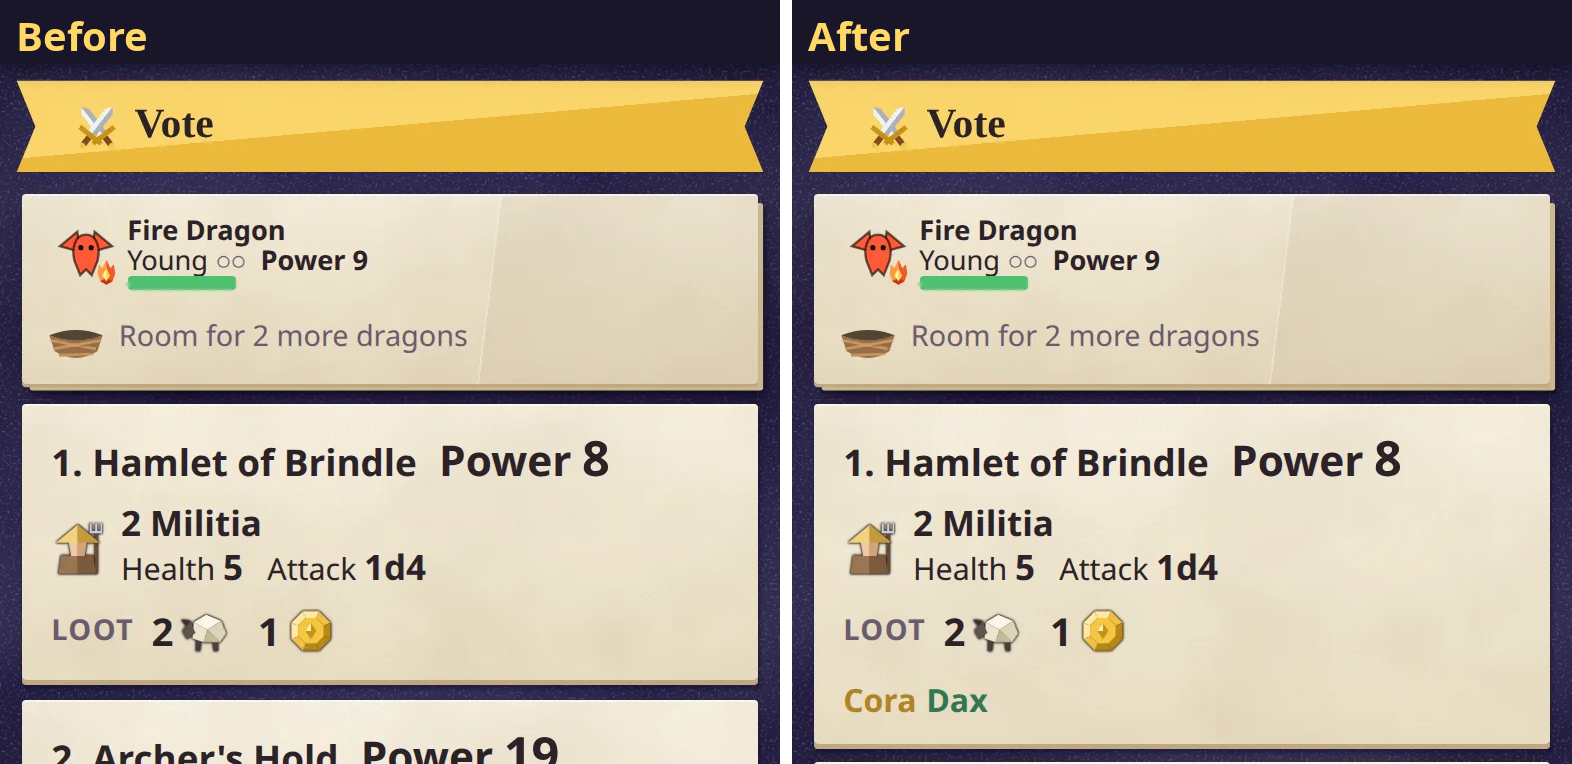
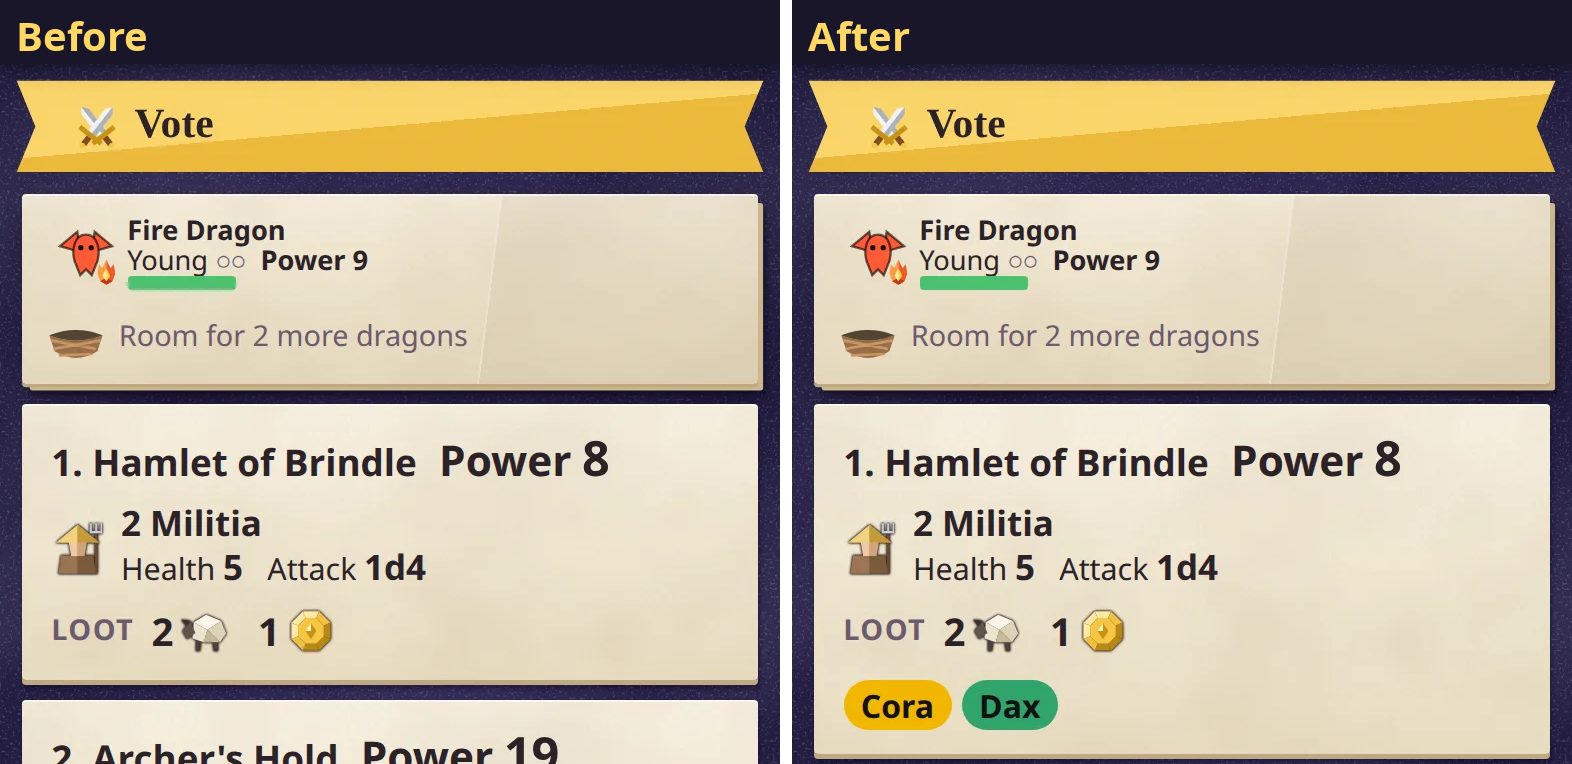
TV vote: one number per kingdom, votes readable from across the room
Vote cards show name, combat power large, defenders as pictures with counts,
loot, and voters as coloured pills; per-unit stats wait for the commit step.
The bottom row shows the number each player voted for instead of a tick.

Claude-Session: https://claude.ai/code/session_01MEmTqDZjgwKLtVkQEKthmc

Changed region(s): [[0.4987, 0.873, 0.9975, 1.0], [0.5922, 0.3613, 0.6546, 0.3914]]

diff --git a/web/tv.ts b/web/tv.ts
@@ -8,7 +8,7 @@ import type { DragonView, EventView, PublicState, Snapshot, TargetView } from '.
 import {
   ELEMENT_COLORS, PLAYER_COLORS, POINTS_TO_WIN, STAGE_LABEL, TERRAIN_COLORS, TERRAIN_NAMES, TITLE_ICON, buildingIcon, dieFace, dragonBadge, dragonChip, dragonLabel, dragonState, elemWords, esc, eventHtml, foeStack, lootLine, gainChips, hpBar, hpFill, powerTag,
   icon, iconText, mapSvg, named, playerTag, post, resChips, standingsHtml, tiebreakNote, unitIcon, watch,
-  fadeAway, voters,
+  fadeAway, foeIcons, voters,
 } from './common.ts';
 import { ART_DEFS, tableScene, towerToken, winnerScene } from './art.ts';
 import type { Board3D } from './board3d.ts';
@@ -321,8 +321,15 @@ function talkLine(text: string, g: PublicState): string {
 
 // The raid takes over the screen while it runs. Every step is the same
 // arena: the raiders on the left, the kingdom's defenders on the right.
-function targetCard(t: TargetView, extra = '', below = ''): string {
-  return `<div class="target">${extra}<h2>${esc(t.name)} ${powerTag(t.power, 'big')}</h2>${foeStack(t.units, 2.6)}${lootLine(t.loot, 1.6)}${below}</div>`;
+function targetCard(t: TargetView): string {
+  return `<div class="target"><h2>${esc(t.name)} ${powerTag(t.power, 'big')}</h2>${foeStack(t.units, 2.6)}${lootLine(t.loot, 1.6)}</div>`;
+}
+
+// A kingdom to vote for, kept to what the choice needs from across the room:
+// its number, name, combat power, defenders as pictures, loot, and who has
+// voted for it. Each defender's stats wait for the commit step's card.
+function candidateCard(t: TargetView, i: number, votes: (number | null)[]): string {
+  return `<div class="target cand"><div class="num">${i + 1}</div><h2>${esc(t.name)}</h2>${powerTag(t.power, 'big')}${foeIcons(t.units, 3.2)}${lootLine(t.loot, 1.8)}${voters(votes, i, names)}</div>`;
 }
 
 function check(done: boolean): string {
@@ -357,8 +364,8 @@ function renderRaid(g: PublicState) {
   let body = '';
   if (raid.step === 'vote') {
     body = `<h1>${icon('raid', 1.1)} Vote ${raidPips(g)}</h1>
-      <div class="candidates">${raid.candidates.map((t, i) => targetCard(t, `<div class="num">${i + 1}</div>`, voters(raid.votes, i, names))).join('')}</div>
-      <div class="status">${names.map((_, p) => `${playerTag(p, names)} ${check(raid.votes[p] !== null)}`).join(' ')}</div>`;
+      <div class="candidates vote" style="--cols:${raid.candidates.length <= 3 ? raid.candidates.length : Math.ceil(raid.candidates.length / 2)}">${raid.candidates.map((t, i) => candidateCard(t, i, raid.votes)).join('')}</div>
+      <div class="status">${names.map((_, p) => `${playerTag(p, names)} ${raid.votes[p] === null ? check(false) : `<span class="vnum">${raid.votes[p]! + 1}</span>`}`).join(' ')}</div>`;
   } else if (raid.step === 'commit') {
     // Each player's dragons that could go, the sent ones lit; a roost for
     // anyone keeping theirs home; a tick once they're ready.

diff --git a/web/style.css b/web/style.css
@@ -315,7 +315,19 @@ q::after { content: close-quote; }
 .target { background: var(--sheet); box-shadow: var(--lift); border-radius: 2px; padding: .8em 1.2em; text-align: left; min-width: 24em; position: relative; }
 .target h2 { margin: 0 0 .4em; font-size: 1.6em; }
 .target .num { position: absolute; top: -.5em; left: -.5em; width: 1.8em; height: 1.8em; border-radius: 50%; background: var(--accent); color: #111; font-weight: 900; font-size: 1.4em; display: flex; align-items: center; justify-content: center; }
-.voters { display: flex; flex-wrap: wrap; gap: .3em; margin-top: .4em; }
+.voters { display: flex; flex-wrap: wrap; gap: .3em; margin-top: .5em; }
+.voters .ptag { background: var(--pc); color: #111 !important; font-weight: 800; padding: .1em .55em; border-radius: 1em; }
+.target .voters { font-size: 1.5em; }
+.candidates.vote { display: grid; grid-template-columns: repeat(var(--cols), minmax(0, 26em)); gap: 1.4em; }
+.cand { display: flex; flex-direction: column; align-items: flex-start; gap: .4em; min-width: 0; padding: 1em 1.4em; }
+.cand h2 { margin: 0; padding-left: .6em; font-size: 2em; }
+.cand > .stat.power.big { font-size: 2.2em; margin: 0; }
+.foeicons { display: flex; flex-wrap: wrap; gap: .2em 1em; align-items: center; }
+.foeicon { display: inline-flex; align-items: center; gap: .15em; }
+.foeicon b { font-size: 1.6em; font-weight: 900; }
+.cand .loot { font-size: 1.5em; margin-top: 0; }
+.cand .voters { margin-top: auto; padding-top: .3em; }
+.vnum { display: inline-flex; align-items: center; justify-content: center; width: 1.5em; height: 1.5em; border-radius: 50%; background: var(--accent); color: #111; font-weight: 900; }
 .weak { color: var(--good); }
 .loot { margin-top: .5em; font-size: 1.2em; display: flex; flex-wrap: wrap; align-items: center; gap: .1em .3em; }
 .loot-label { font-size: .75em; font-weight: 700; color: var(--muted); text-transform: uppercase; letter-spacing: .05em; margin-right: .2em; }
@@ -800,6 +812,9 @@ body.tv.remote { font-size: 15px; overflow: auto; }
 .remote .target { min-width: 0; width: 100%; padding: .6em .8em; }
 .remote .target h2 { font-size: 1.25em; }
 .remote .target .foes { font-size: 1em; }
+.remote .candidates.vote { grid-template-columns: repeat(2, minmax(0, 1fr)); gap: .8em; width: 100%; }
+.remote .cand { padding: .7em .8em; font-size: .75em; }
+.remote .cand .foeicons { font-size: .8em; }
 .remote .target .loot { font-size: 1.15em; }
 .remote .target .num { font-size: 1.1em; }
 .remote .status { font-size: 1.1em; }

diff --git a/web/common.ts b/web/common.ts
@@ -376,6 +376,17 @@ export function foeStack(units: UnitView[], size = 2): string {
     </div>`).join('')}</div>`;
 }
 
+// A kingdom's defenders at a glance: one picture per kind, with how many.
+// For choosing among kingdoms, where combat power already sums up the fight.
+export function foeIcons(units: UnitView[], size = 2): string {
+  const kinds: { name: string; n: number }[] = [];
+  for (const u of units) {
+    const k = kinds.find((x) => x.name === u.name);
+    if (k) k.n++; else kinds.push({ name: u.name, n: 1 });
+  }
+  return `<div class="foeicons">${kinds.map(({ name, n }) => `<span class="foeicon" title="${esc(n > 1 ? `${n} ${plural(name)}` : name)}">${unitIcon(name, size)}${n > 1 ? `<b>×${n}</b>` : ''}</span>`).join('')}</div>`;
+}
+
 // "Frost Golem" -> "Frost Golems"; names already plural ("Archers", "Militia") stay.
 function plural(name: string): string {
   return /s$|Militia$/.test(name) ? name : `${name}s`;

diff --git a/docs/clients.md b/docs/clients.md
@@ -64,7 +64,7 @@ Everything else is in [`cli.md`](cli.md). The CLI gets the same JSON a phone doe
 
 ## What's where
 
-- **TV** (everything public): the board in 3D, in folded paper: each hex a creased sheet of coloured paper laid on an open sea that runs off every edge of the screen, seen from a little off straight down, every building a folded paper model on its owner's coloured plate (it pops up off the page when it's built, the hex's trees, grass and crystals folding down and back up round it; an upgrade adds a gold rim and pennant). Whatever just appeared, a building or a beast that arrived, keeps a glowing gold outline round its hex for about 12 seconds: the table is often on their phones when it happens, and every dragon in origami at home on its owner's tower, roost or hatchery, flying a lap round its home now and then (eggs sit in nests; hungry or hurt dragons lie down and stay in). Nothing on the board jumps: a dragon eases into and out of flight, grows to its new size, flaps down to its perch when it gets hurt or hungry in the air, settles when it lies down, and hops to a new perch; a beast or building that leaves folds back down flat, and a dragon shrinks away. The board is the TV: it fills the screen's height, centred, and everything else stands in the columns either side of it and in its corners. A card per player, the first half of the table on the left and the rest on the right, sized to be read from the couch (as large as the player count allows, stepping down only to fit): their points, cards in hand, what they're doing when the table waits on them (taking a turn, answering an offer, discarding, voting…), the titles they hold, and their dragons by name (a second of the same kind is "II") with life stage, growth, combat power (a gold shield and a number), and health or why they're sitting out the round (hungry, or healing after a fight, with the rounds until it can raid again). No resources and no income: those are each player's own, on their phone. Open trade offers sit over the top edge of the board. Along the top, the round's number and its phases in order (Production, Cards, Actions, Raid, End of round), the current one lit on a gold ribbon; who the table is waiting on is on the players' cards. In the bottom-left corner, the last few events and table talk in one feed, each event a short line in the log's own words with the icons in it ("Ada builds a Quarry", "The Wolf Pack falls: Ada +2 timber"). It leaves out what the screen already shows: a dragon sitting out is its tag on its owner's card, and a beast wandering is the board (the feed has no hexes to name; a beast moving onto a building is said); in the bottom-right, the titles (everyone's count, the holder's ringed, and the count it takes to hold one). Each round opens with its number and everyone's production roll, each player's dice tumbling a moment after the last's and landing for the whole table to see (only the dice: not what they bring in). Every scene (a roll, a fight, a raid nobody joined) is paced for a table looking at their phones: a beat before anything happens, so there's time to look up when the phone says "Watch the TV", and the result held long enough to read after looking up late (`web/scenes.ts`). The raid takes over the screen, drawn rather than written: each kingdom's combat power and its defenders as a picture per kind ("×4") with their health, attack and the elements they take double damage from; then an arena, the raiders on the left (each player's dragons that could go, the ones sent lit with their combat power added up, a roost for anyone staying home, a tick once they're ready) and the kingdom on the right, through commitments and fight-or-bail (who has chosen, not what); then the fight replayed blow by blow, a stroke from each attacker to what it hits, health bars falling as the hits land, whoever bailed shown flying home, and who won and what they took. When a War Horn adds raids, a dim mark for each one still to come sits by the raid's title. Every fight gets that replay: clearing fauna too, a wolf pack as much as a great beast, with the player's dragons on the left, the beast on the right, then whether it falls and what they got. At the end the winner gets their moment (their tower and dragons under paper confetti) above the final standings: place, points (with any that were secret cards), ties marked, and how the winner won a tie if they did. The phone shows the same in place of the game: no resources or income left over.
+- **TV** (everything public): the board in 3D, in folded paper: each hex a creased sheet of coloured paper laid on an open sea that runs off every edge of the screen, seen from a little off straight down, every building a folded paper model on its owner's coloured plate (it pops up off the page when it's built, the hex's trees, grass and crystals folding down and back up round it; an upgrade adds a gold rim and pennant). Whatever just appeared, a building or a beast that arrived, keeps a glowing gold outline round its hex for about 12 seconds: the table is often on their phones when it happens, and every dragon in origami at home on its owner's tower, roost or hatchery, flying a lap round its home now and then (eggs sit in nests; hungry or hurt dragons lie down and stay in). Nothing on the board jumps: a dragon eases into and out of flight, grows to its new size, flaps down to its perch when it gets hurt or hungry in the air, settles when it lies down, and hops to a new perch; a beast or building that leaves folds back down flat, and a dragon shrinks away. The board is the TV: it fills the screen's height, centred, and everything else stands in the columns either side of it and in its corners. A card per player, the first half of the table on the left and the rest on the right, sized to be read from the couch (as large as the player count allows, stepping down only to fit): their points, cards in hand, what they're doing when the table waits on them (taking a turn, answering an offer, discarding, voting…), the titles they hold, and their dragons by name (a second of the same kind is "II") with life stage, growth, combat power (a gold shield and a number), and health or why they're sitting out the round (hungry, or healing after a fight, with the rounds until it can raid again). No resources and no income: those are each player's own, on their phone. Open trade offers sit over the top edge of the board. Along the top, the round's number and its phases in order (Production, Cards, Actions, Raid, End of round), the current one lit on a gold ribbon; who the table is waiting on is on the players' cards. In the bottom-left corner, the last few events and table talk in one feed, each event a short line in the log's own words with the icons in it ("Ada builds a Quarry", "The Wolf Pack falls: Ada +2 timber"). It leaves out what the screen already shows: a dragon sitting out is its tag on its owner's card, and a beast wandering is the board (the feed has no hexes to name; a beast moving onto a building is said); in the bottom-right, the titles (everyone's count, the holder's ringed, and the count it takes to hold one). Each round opens with its number and everyone's production roll, each player's dice tumbling a moment after the last's and landing for the whole table to see (only the dice: not what they bring in). Every scene (a roll, a fight, a raid nobody joined) is paced for a table looking at their phones: a beat before anything happens, so there's time to look up when the phone says "Watch the TV", and the result held long enough to read after looking up late (`web/scenes.ts`). The raid takes over the screen, drawn rather than written: the vote shows each kingdom's name, its combat power large, its defenders as a picture per kind ("×4") and its loot, with everyone who voted for it as a pill in their colour, and under the kingdoms each player with the number of the kingdom they voted for; then an arena, with the raiders on the left (each player's dragons that could go, the ones sent lit with their combat power added up, a roost for anyone staying home, a tick once they're ready) and the kingdom on the right, its defenders' health, attack and the elements they take double damage from now shown, through commitments and fight-or-bail (who has chosen, not what); then the fight replayed blow by blow, a stroke from each attacker to what it hits, health bars falling as the hits land, whoever bailed shown flying home, and who won and what they took. When a War Horn adds raids, a dim mark for each one still to come sits by the raid's title. Every fight gets that replay: clearing fauna too, a wolf pack as much as a great beast, with the player's dragons on the left, the beast on the right, then whether it falls and what they got. At the end the winner gets their moment (their tower and dragons under paper confetti) above the final standings: place, points (with any that were secret cards), ties marked, and how the winner won a tie if they did. The phone shows the same in place of the game: no resources or income left over.
 - **Phone** (only yours): your resources, each with what a round brings in under it (production minus what your dragons eat, e.g. `+2 +3d6`), your points including secret ones, your roost (your dragons, their growth, combat power, health and whether they're hungry or healing, and an empty nest for each dragon you have room for; tap a dragon to see its card full size, its stats at every life stage with the one it's at now marked, or leaf through your other dragons from there), on every screen of the game, your hand (illustrated paper cards held in a fan along the bottom edge; on your turn the ones you can play now glow; tap one to see it full size with its rules and play it, or leaf through the hand from there by swiping or with ‹ ›; press a card and slide along the fan and the card under your thumb rises, straight and big enough to read, which is how a full, overlapping hand is read; hold a card still to open it; drag one up out of the fan and let go to play it, straight away or on to the choice it needs (the hex, the dragon), or, if it can't be played now, to open it and see why; new cards fly in as you draw them; to discard, tap cards in the fan (or drag them up): each one picked is laid out face up above **Discard**, with an empty place for each still to pick, and tapping it there puts it back; while discarding, hold a card to read it, with **Discard** or **Don't discard** under it; to offer cards in a trade, tap or drag them the same way), and whatever you're being asked right now. At the start of each round: keep one of the two building cards you drew. On your turn: play cards (pick the hex on a small copy of the map; for a building that counts its neighbours, each hex shows its count), basic buildings with no card, the egg special project, the bank, trades and **End turn**. Out of turn: offer the acting player a trade, and accept or decline offers made to you. In the raid, with your roost and hand still on screen (the hand gives way on a short screen) and the kingdom you'd fight drawn above your choice: vote (each kingdom with its combat power and who has voted for it), commit dragons (each with its power, the total on the button) and lock in, fight or bail in secret (seeing who else is going, and with how much power). Nothing on the phone is a hard cut: the page updates in place (`web/morph.ts`), so a card held open stays still while the table plays on, and a card picked, offered or arriving makes the rest of the hand slide to their new places; each new screen (your turn, the raid's next step, the card to keep, "Watch the TV") rises in while the last fades away above it; the hand slides down off the bottom edge when a screen has no room for it, and between the bottom edge and the end of a long page; an open card fades as it closes; and offer answers and errors fade in and out.
 
 - **Scenes: one moment at a time.** A round's opening roll, a fight's replay (a raid, or clearing fauna) and a raid no one joined are scenes: the whole table watches them on the TV. While one plays, every phone says "Watch the TV" (and shows nothing that changed, so the ending isn't given away), bots and CLI players wait, and the TV's panels, feed and titles stay as they were when the scene began; when it ends, the next decision comes up everywhere at once. A raid that no one could have joined (no dragon was raid-ready, as in round 1) is no scene. In a game with no TV (remote mode), each phone's table view plays the scene and cuts to it, the same hold applies, and a phone switched back to You says "Watch the table". With no screen watching at all (CLI or playtest games), nothing waits. The scenes and their lengths are in `web/scenes.ts`, which the TV and the server both read. Nothing on the TV is a hard cut: a scene, the raid's steps and the final scores fade in over the board, each new one rises in as the last fades away above it, and the last scene fades out with the board already caught up under it, so what changed during it folds up one thing after another as it clears (`board3d.ts`). A production row slides in as its dice start to roll, and the TV's notes and errors fade as they go. The fades fit inside each scene's length, so the hold above doesn't change.
